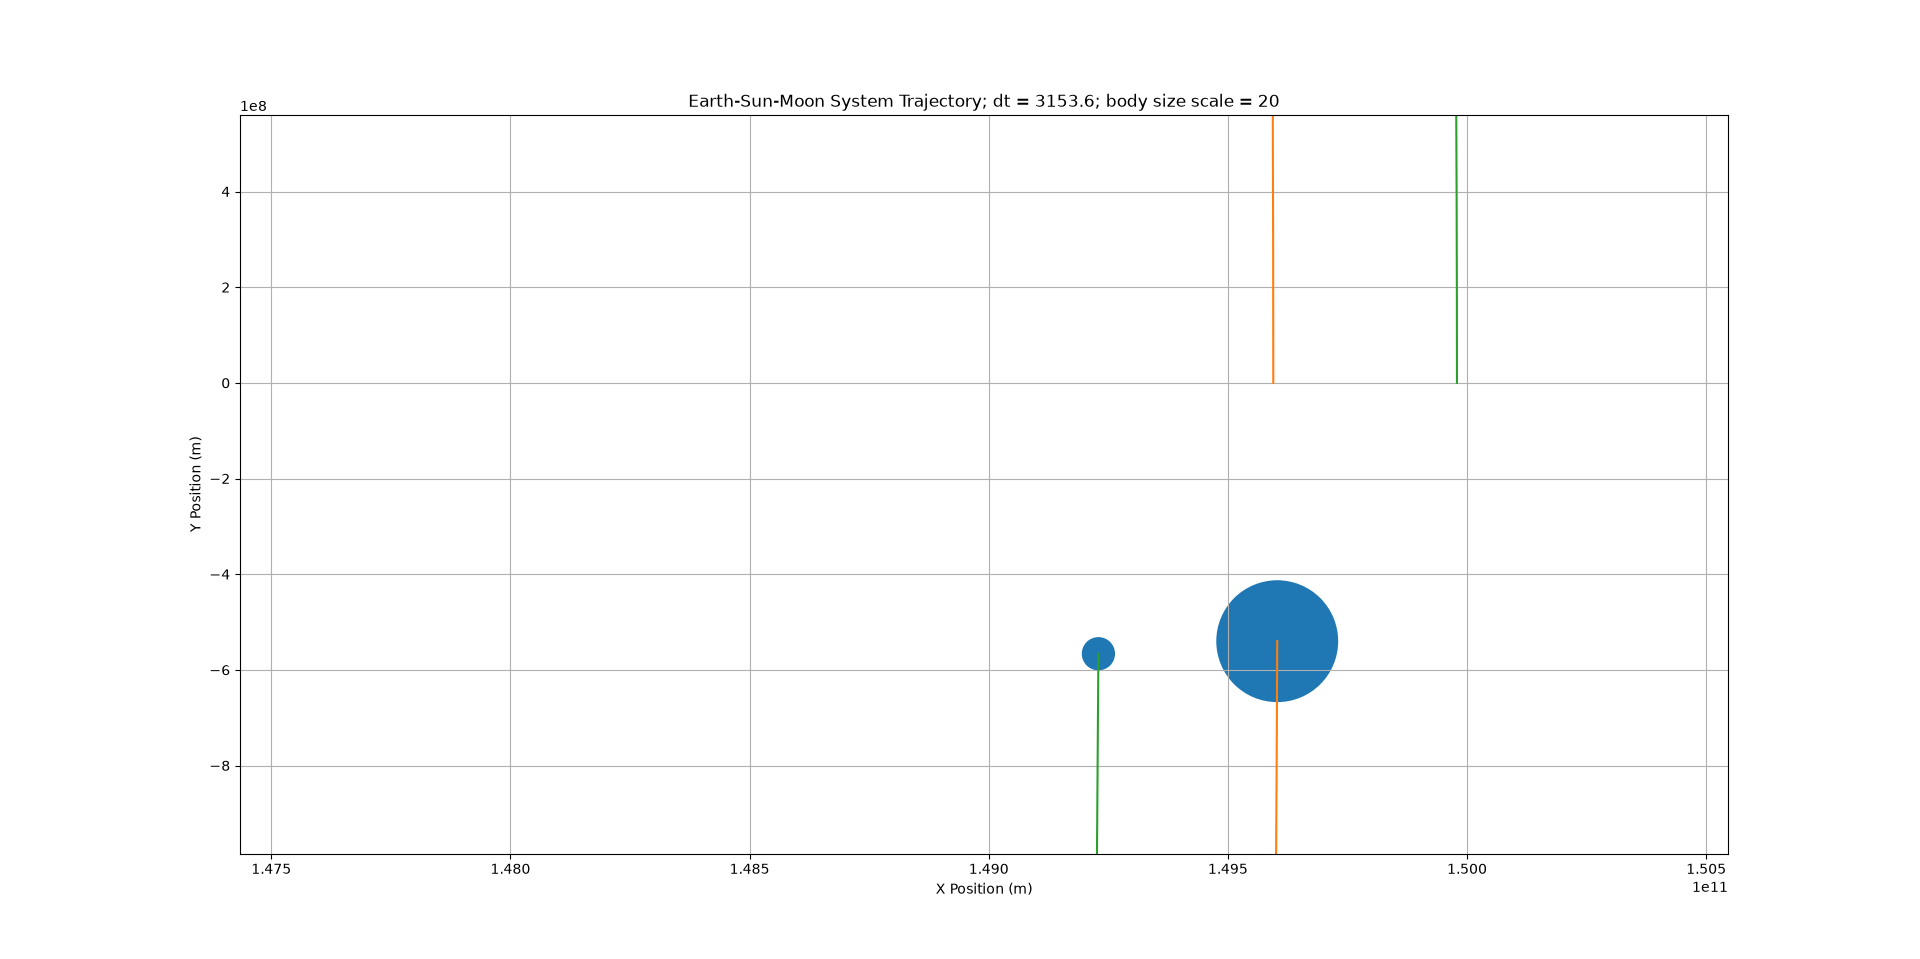
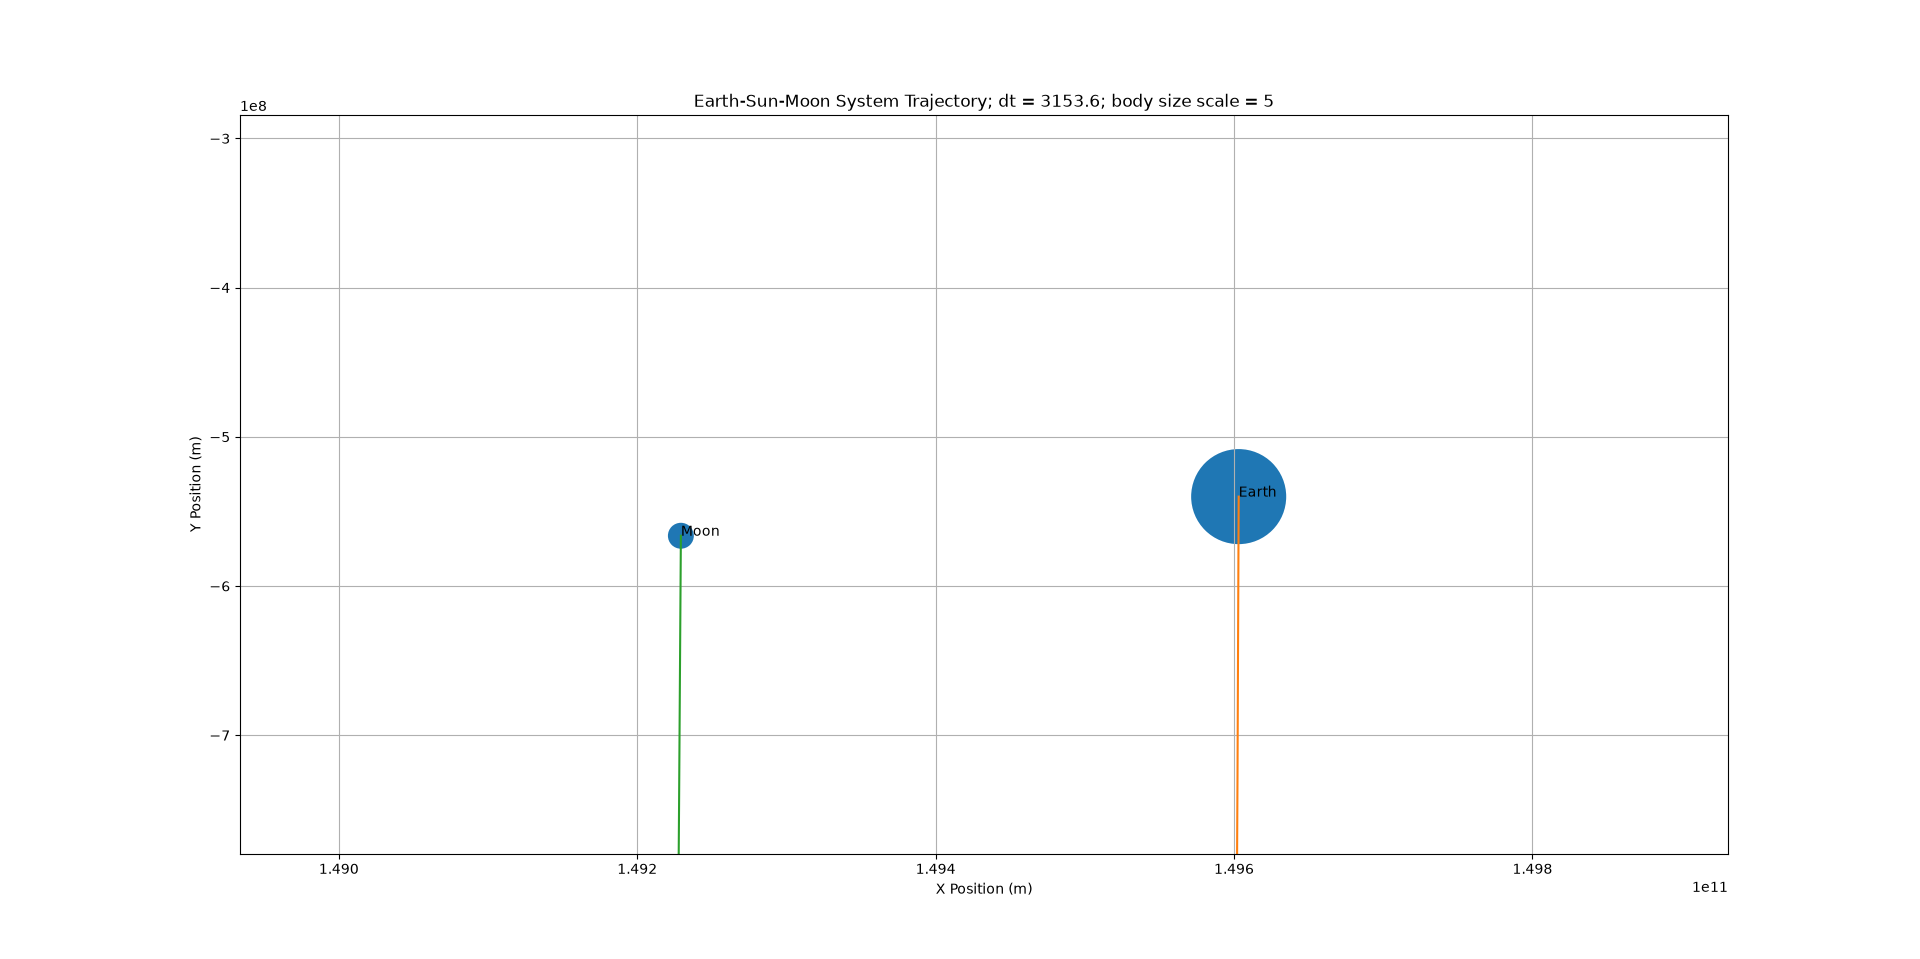
Add presets

diff --git a/presets.py b/presets.py
@@ -1,0 +1,158 @@
+from state import *
+from constants import *
+
+solar_system = SystemState(
+    body_states = (
+        BodyState(
+            body = Body(
+                name = "Sun",
+                mass = SUN_MASS,
+                radius = SUN_RADIUS
+            ),
+            position = Vector2(
+                x = 0,
+                y = 0
+            ),
+            velocity = Vector2(
+                x = 0,
+                y = -16
+            )
+        ),
+        BodyState(
+            body = Body(
+                name = "Mercury",
+                mass = MERCURY_MASS,
+                radius = MERCURY_RADIUS
+            ),
+            position = Vector2(
+                x = 5.79 * (10 ** 10),
+                y = 0
+            ),
+            velocity = Vector2(
+                x = 0,
+                y = 4.787 * (10 ** 4)
+            )
+        ),
+        BodyState(
+            body = Body(
+                name = "Venus",
+                mass = VENUS_MASS,
+                radius = VENUS_RADIUS
+            ),
+            position = Vector2(
+                x = 1.082 * (10 ** 11),
+                y = 0
+            ),
+            velocity = Vector2(
+                x = 0,
+                y = 3.502 * (10 ** 4)
+            )
+        ),
+        BodyState(
+            body = Body(
+                name = "Earth",
+                mass = EARTH_MASS,
+                radius = EARTH_RADIUS
+            ),
+            position = Vector2(
+                x = 1.496 * (10 ** 11),
+                y = 0
+            ),
+            velocity = Vector2(
+                x = 0,
+                y = 2.9785 * (10 ** 4)
+            )
+        ),
+        BodyState(
+            body = Body(
+                name = "Moon",
+                mass = MOON_MASS,
+                radius = MOON_RADIUS
+            ),
+            position = Vector2(
+                x = 1.49984 * (10 ** 11),
+                y = 0
+            ),
+            velocity = Vector2(
+                x = 0,
+                y = 3.078 * (10 ** 4)
+            )
+        ),
+        BodyState(
+            body = Body(
+                name = "Mars",
+                mass = MARS_MASS,
+                radius = MARS_RADIUS
+            ),
+            position = Vector2(
+                x = 2.279 * (10 ** 11),
+                y = 0
+            ),
+            velocity = Vector2(
+                x = 0,
+                y = 2.4077 * (10 ** 4)
+            )
+        ),
+        BodyState(
+            body = Body(
+                name = "Jupiter",
+                mass = JUPITER_MASS,
+                radius = JUPITER_RADIUS
+            ),
+            position = Vector2(
+                x = 7.785 * (10 ** 11),
+                y = 0
+            ),
+            velocity = Vector2(
+                x = 0,
+                y = 1.307 * (10 ** 4)
+            )
+        ),
+        BodyState(
+            body = Body(
+                name = "Saturn",
+                mass = SATURN_MASS,
+                radius = SATURN_RADIUS
+            ),
+            position = Vector2(
+                x = 1.4335 * (10 ** 12),
+                y = 0
+            ),
+            velocity = Vector2(
+                x = 0,
+                y = 9.689 * (10 ** 3)
+            )
+        ),
+        BodyState(
+            body = Body(
+                name = "Uranus",
+                mass = URANUS_MASS,
+                radius = URANUS_RADIUS
+            ),
+            position = Vector2(
+                x = 2.871 * (10 ** 12),
+                y = 0
+            ),
+            velocity = Vector2(
+                x = 0,
+                y = 6.8 * (10 ** 3)
+            )
+        ),
+        BodyState(
+            body = Body(
+                name = "Neptune",
+                mass = NEPTUNE_MASS,
+                radius = NEPTUNE_RADIUS
+            ),
+            position = Vector2(
+                x = 4.503443661 * (10 ** 12),
+                y = 0
+            ),
+            velocity = Vector2(
+                x = 0,
+                y = 5.43 * (10 ** 3)
+            )
+        )
+    ),
+    time = 0
+)

diff --git a/scenarios.py b/scenarios.py
@@ -6,7 +6,8 @@ from plotter import plot_trajectory, plot_integrator_comparison, plot_diagnostic
 from diagnostics import altitude, specific_energy_history, relative_change_percent, specific_angular_momentum_history, orbital_period, apsides, find_apsis_events, escape_velocity
 from validation import circular_orbit_max_energy_drift
 from maneuvers import apply_prograde_delta_v, hohmann_transfer
-from collision import has_collision_with_body, estimate_body_impact_time, system_check_collision, estimate_system_impact_time
+from collision import has_collision_with_body, estimate_body_impact_time
+from presets import solar_system
 from state import *
 from math import sqrt
 
@@ -274,4 +275,12 @@ def run_nbody_example():
     steps = 10000
     dt = total_time / steps
     system_states = simulate_system(system, dt, steps, system_velocity_verlet_step, system_gravitational_accelerations, [])
-    plot_system_trajectory(dt, system_states, "Earth-Sun-Moon System Trajectory", 20)
+    plot_system_trajectory(dt, system_states, "Earth-Sun-Moon System Trajectory", 5)
+    
+    # Figure 2, 2.1, 2.2: Solar system
+    system = solar_system
+    total_time = 165 * 365 * 24 * 60 * 60
+    steps = 100000
+    dt = total_time / steps
+    system_states = simulate_system(solar_system, dt, steps, system_velocity_verlet_step, system_gravitational_accelerations, [])
+    plot_system_trajectory(dt, system_states, "Solar System Trajectory", 5)

diff --git a/constants.py b/constants.py
@@ -1,7 +1,23 @@
 """Physical constants for the simulator, expressed in SI units."""
 
 GRAVITATIONAL_CONSTANT = 6.67430e-11  # m^3 kg^-1 s^-2
-EARTH_MASS = 5.972e24  # kg
-EARTH_RADIUS = 6.371e6  # m
-EARTH_MU = (GRAVITATIONAL_CONSTANT * EARTH_MASS)  # m^3 s^-2
-EARTH_SURFACE_GRAVITY = (EARTH_MU / (EARTH_RADIUS ** 2))  # m s^-2
+SUN_MASS = 1.989 * (10 ** 30)
+SUN_RADIUS = 6.96 * (10 ** 8)
+MERCURY_MASS = 3.3011 * (10 ** 23)
+MERCURY_RADIUS = 2.44 * (10 ** 6)
+VENUS_MASS = 4.87 * (10 ** 24)
+VENUS_RADIUS = 6.0518 * (10 ** 6)
+EARTH_MASS = 5.9722 * (10 ** 24)
+EARTH_RADIUS = 6.371 * (10 ** 6)
+MOON_MASS = 7.35 * (10 ** 22)
+MOON_RADIUS = 1.74 * (10 ** 6)
+MARS_MASS = 6.417 * (10 ** 23)
+MARS_RADIUS = 3.39 * (10 ** 6)
+JUPITER_MASS = 1.898 * (10 ** 27)
+JUPITER_RADIUS = 6.9911 * (10 ** 7)
+SATURN_MASS = 5.683 * (10 ** 26)
+SATURN_RADIUS = 5.8232 * (10 ** 7)
+URANUS_MASS = 8.681 * (10 ** 25)
+URANUS_RADIUS = 2.5362 * (10 ** 7)
+NEPTUNE_MASS = 1.024 * (10 ** 26)
+NEPTUNE_RADIUS = 2.4764 * (10 ** 7)

diff --git a/plotter.py b/plotter.py
@@ -40,6 +40,7 @@ def plot_system_trajectory(
             y_list.append(systems[j].body_states[i].position.y)
         ax.plot(x_list, y_list, linestyle='-')
         ax.add_artist(plt.Circle((state.position.x, state.position.y), (state.body.radius * body_scale)))
+        ax.text(state.position.x, state.position.y, state.body.name)
     plt.title(f'{title}; dt = {dt}; body size scale = {body_scale}')
     plt.xlabel('X Position (m)')
     plt.ylabel('Y Position (m)')

diff --git a/tests/test_system.py b/tests/test_system.py
@@ -200,7 +200,7 @@ class TestSystem(unittest.TestCase):
         self.assertAlmostEqual(center1.y, center2.y)
         self.assertAlmostEqual(angular_epsilon, 0)
         self.assertAlmostEqual(energy_epsilon, 0)
-        #plot_system_trajectory(dt, system_states, "Triangular 3-Body Orbit Trajectory;")
+        #plot_system_trajectory(dt, system_states, "Triangular 3-Body Orbit Trajectory")
         
     # Test collision
     def test_collision(self):
